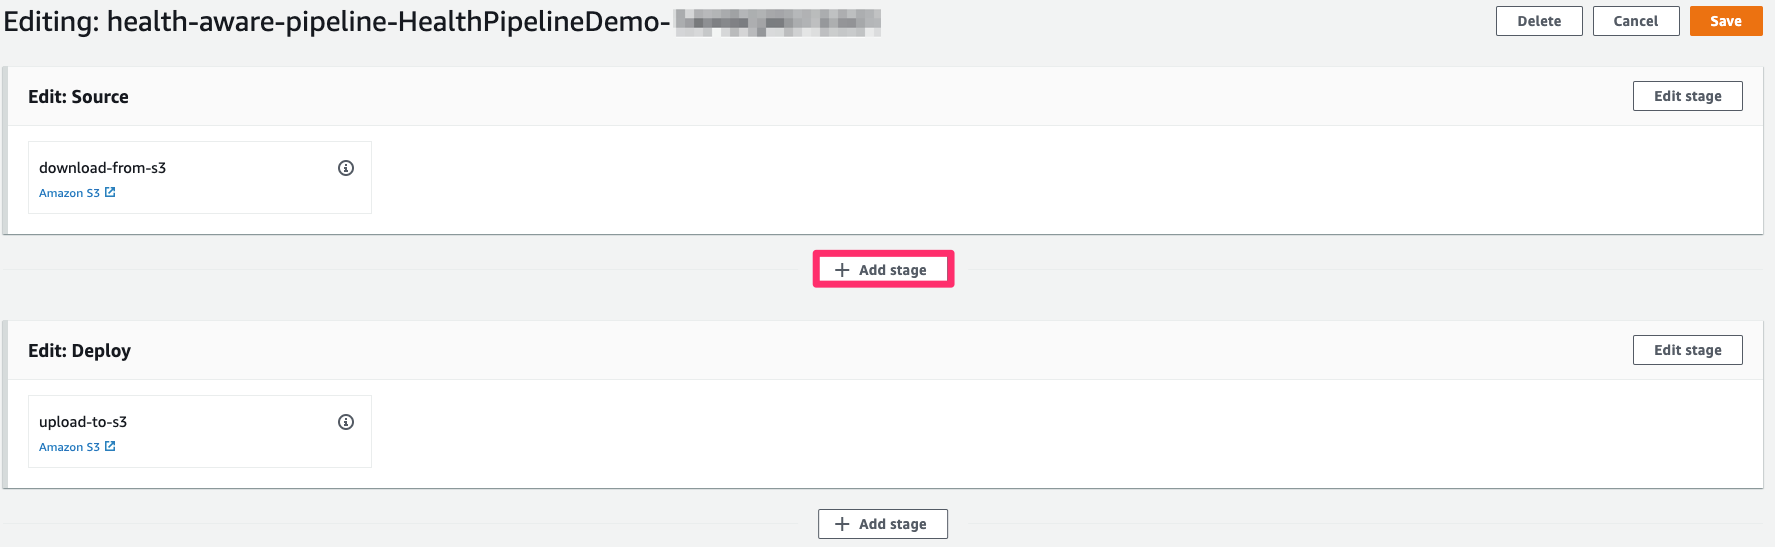
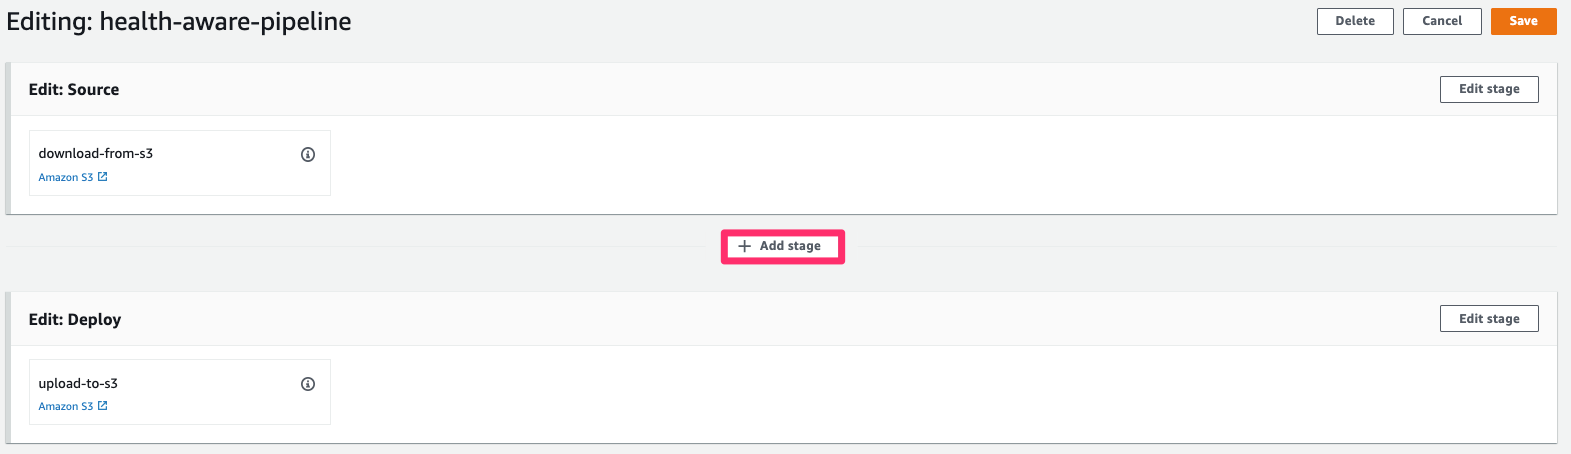
apply fixes based on Michael and Rene's Comments

diff --git a/content/Operational Excellence/300_Labs/300_Health_Aware_CICD_Pipelines/1_deploy_sample_cicd_pipeline.md b/content/Operational Excellence/300_Labs/300_Health_Aware_CICD_Pipelines/1_deploy_sample_cicd_pipeline.md
@@ -10,9 +10,9 @@ In this section, you will prepare a sample CI/CD pipeline. The CI/CD pipeline is
 
 The CodePipeline flow consists of three steps:
 
-1. Source stage that downloads the file `file-to-edit` from an S3 bucket.
+1. Source stage that downloads the file `health-demo-file.txt` from an S3 bucket.
 2. Custom stage that invokes the AWS Lambda function to evaluate the AWS Health. The Lambda function calls the AWS Health API, evaluates the health risk, and calls back CodePipeline with the assessment result.
-3. Deploy stage that uploads the S3 file `file-to-edit` into the same source bucket under a different prefix `/output`.
+3. Deploy stage that uploads the S3 file `health-demo-file.txt` into the same source bucket under a different prefix `/output`.
 
 ![CodePipeline workflow ](/Operations/300_Health_Aware_CICD_Pipelines/Images/health-aware-cicd-pipelines-war-workflow.png)
 
@@ -39,33 +39,38 @@ In this step you will provision a [CloudFormation](https://aws.amazon.com/cloudf
 
 ![Cloudformation Resources ](/Operations/300_Health_Aware_CICD_Pipelines/Images/cloudformation-resources.png)
 
-* An AWS CodePipeline workflow named `health-aware-pipeline-HealthPipelineDemo-<RANDOM_NUMBER>`
-* An S3 bucket named `health-aware-pipeline-s3buckethealthdemo-<RANDOM_NUMBER>`. This is where the source object (`file-to-edit`) will be uploaded.
-* An IAM Role named `health-aware-pipeline-PipelineExecutionRole-<RANDOM_NUMBER>` that will be assumed by the AWS CodePipeline workflow to call AWS services on your behalf. 
+* An AWS CodePipeline workflow named `health-aware-pipeline`
+* An S3 bucket named `<STACK_NAME>-s3buckethealthdemo-<RANDOM_NUMBER>`. This is where the source object (`health-demo-file.txt`) will be uploaded.
+* An IAM Role named `health-aware-pipeline-role` that will be assumed by the AWS CodePipeline workflow to call AWS services on your behalf. 
 
-### 2. Upload the sample file `file-to-edit` to S3
+### 2. Upload the sample file to S3
 
-To verify that the deployment in step 1 is valid, you will have to create a sample source file (`file-to-edit`) and upload to the S3 bucket created in the previous step. This file can be an empty file or you may use [this sample file](/Operations/300_Health_Aware_CICD_Pipelines/Code/file-to-edit).
+To verify that the deployment in step 1 is valid, you will have to create a sample source file (`health-demo-file.txt`) and upload to the S3 bucket created in the previous step. This file can be an empty file or you may use [this sample file](/Operations/300_Health_Aware_CICD_Pipelines/Code/health-demo-file.txt).
 
 * Open the [AWS S3 console](https://s3.console.aws.amazon.com/s3/buckets) and select the newly created bucket.
 * In the **Objects** tab, click the **Upload** button.
 
 ![S3 Bucket Click Upload ](/Operations/300_Health_Aware_CICD_Pipelines/Images/s3-upload.png)
 
-* In the **Upload** screen, click **Add files** and select `file-to-add` from your local storage. Finally, click **Upload**.
+* In the **Upload** screen, click **Add files** and select `health-demo-file.txt` from your local storage. Finally, click **Upload**.
 
 ![S3 Bucket Click Add files ](/Operations/300_Health_Aware_CICD_Pipelines/Images/s3-addfiles.png)
 
-### 2. Test the AWS CodePipeline workflow
+### 3. Test the AWS CodePipeline workflow
 
-In this step, we will validate a successful pipeline execution. Go to the [AWS CodePipeline console](https://ap-southeast-2.console.aws.amazon.com/codesuite/codepipeline/pipelines?region=ap-southeast-2) and click the "Release Change" button.
+In this step, we will validate a successful pipeline execution. Go to the [AWS CodePipeline console](https://ap-southeast-2.console.aws.amazon.com/codesuite/codepipeline/pipelines?region=ap-southeast-2), select the health aware workflow you just created and click the “Release Change” button, then click “Release” when prompted.
+
+In this step, we will validate a successful pipeline execution. Go to the [AWS CodePipeline console](https://ap-southeast-2.console.aws.amazon.com/codesuite/codepipeline/pipelines?region=ap-southeast-2), select the workflow you just created and click the “Release Change” button, then click “Release” when prompted.
 
 ![CodePipeline release change ](/Operations/300_Health_Aware_CICD_Pipelines/Images/codepipeline-release-change.png)
 
-If the workflow operated as designed, the "Deploy" stage will be marked as "succeeded". In addition to that, the object `file-to-edit` will be now copied into the same S3 bucket under the `/output` prefix. 
+If the workflow operated as designed, the "Deploy" stage will be marked as "succeeded". In addition to that, the object `health-demo-file.txt` will be now copied into the same S3 bucket under the `/output` prefix. 
 
 ![CodePipeline deployment complete ](/Operations/300_Health_Aware_CICD_Pipelines/Images/codepipeline-deployment-complete.png)
 
+{{% notice note %}}
+The pipeline expects a source file with the name `health-demo-file.txt` to be available in the source bucket. If the file doesn't exist, pipeline execution will fail.
+{{% /notice %}}
 
 ## Congratulations! 
 

diff --git a/content/Operational Excellence/300_Labs/300_Health_Aware_CICD_Pipelines/2_evaluate_aws_region_health.md b/content/Operational Excellence/300_Labs/300_Health_Aware_CICD_Pipelines/2_evaluate_aws_region_health.md
@@ -101,6 +101,7 @@ and then click **"Create function"**
 In this section, you'll upload the Python code package to the newly created Lambda function and understand how it works, and interacts with the surrounding dependencies. 
 
 a. To download the Lambda Package, click [here](/Operations/300_Health_Aware_CICD_Pipelines/Code/function-validate-aws-health.zip).
+
 b. Click **"Upload from"** a **".zip file"** in the Lambda function, `region-health-evaluation` console. 
 
 ![Upload a the Lambda package ](/Operations/300_Health_Aware_CICD_Pipelines/Images/lambda-upload.png)
@@ -109,7 +110,7 @@ c. Select the .zip package downloaded in step a, and then click **"Save"**
 
 Now, your Python code is uploaded to the Lambda function and ready for use.
 
-#### 1.4. Understandnig the evaluation code
+#### 1.4. Understanding the evaluation code
 
 The Lambda function evaluates whether or not a running AWS Health event may impact the deployment. In this case, the following criteria must be met to consider it as safe to deploy:
 
@@ -125,26 +126,40 @@ The Python code is available on [GitHub](https://github.com/aws-samples/building
 
 ## 2. Integrate CodePipeline and Lambda
 
-In this step, you will create a new stage in the CodePipeline workflow. The stage has a single action that calls the Lambda function to evalaute the region's health. The CodePipeline workflow execution is block untill it receives a callback from the Lambda function indicating either success or failure of the health check. 
+In this step, you will create a new stage in the CodePipeline workflow. The stage has a single action that calls the Lambda function to evaluate the region's health. The CodePipeline workflow execution is blocked until it receives a callback from the Lambda function indicating either success or failure of the health check. 
 
-a. In the AWS CodePipeline console, select the previously deployed workflow `health-aware-pipeline-HealthPipelineDemo-<RANDOM_NUMBER>`
+a. In the AWS CodePipeline console, select the previously deployed workflow `health-aware-pipeline`
 
 b. To Edit the workflow, click on the **"Edit"** button. 
 
-![Edit CodePipeline workflow ](/Operations/300_Health_Aware_CICD_Pipelines/Images/codepipeline-edit.png)
+![Edit CodePipeline workflow ](/Operations/300_Health_Aware_CICD_Pipelines/Images/codepipeline-edit-pipeline.png)
 
-c. Click the **"Add stage"** button between the **"Source"** and **"Deploy"** steps. Name the new stage `evaluate-region-health` and then save. 
+c. Click the **"Add stage"** button between the **"Source"** and **"Deploy"** steps. 
 
-d. In the newly added stage, click **"Add action group"** and fill in the following option values:
+![CodePipeline add stage ](/Operations/300_Health_Aware_CICD_Pipelines/Images/codepipeline-add-stage.png)
+
+d. Name the new stage `evaluate-region-health` and then save. 
+
+![CodePipeline stage name ](/Operations/300_Health_Aware_CICD_Pipelines/Images/codepipeline-stage-name.png)
+
+e. In the newly added stage, click **"Add action group"** and fill in the following option values:
+
+![CodePipeline add action group ](/Operations/300_Health_Aware_CICD_Pipelines/Images/codepipeline-add-action-group.png)
 
 * **Action name**: `lambda-health-check`
 * **Action provider**: Invoke/AWS Lambda
 * **Region**: Asia Pacific (Sydney)
-* **Input artifacts**: `file-to-edit`
+* **Input artifacts**: `health-demo-file`
 * **Function name**: `region-health-evaluation`
 * **User parameters**: `ap-southeast-2`
 
-Click **"Save"** to finalise. 
+Click **"Done"** to save. 
+
+![CodePipeline edit action ](/Operations/300_Health_Aware_CICD_Pipelines/Images/codepipeline-edit-action.png)
+
+f. Now, click **"Done"** and then **"Save"** to finalise. 
+
+![CodePipeline edit final ](/Operations/300_Health_Aware_CICD_Pipelines/Images/codepipeline-edit-final.png)
 
 ## Congratulations! 
 

diff --git a/content/Operational Excellence/300_Labs/300_Health_Aware_CICD_Pipelines/3_simulate_aws_region_issue.md b/content/Operational Excellence/300_Labs/300_Health_Aware_CICD_Pipelines/3_simulate_aws_region_issue.md
@@ -24,7 +24,7 @@ To simulate a successful health evaluation, go to the CodePipeline console and c
 ![CodePipeline release change ](/Operations/300_Health_Aware_CICD_Pipelines/Images/codepipeline-release-change.png)
 
 
-If the workflow operated as designed, "Source", "evaluate-region-health" and "Deploy" stages will be marked as "succeeded". In addition to that, the object `file-to-edit` will be now copied into the same S3 bucket under the `/output` prefix.
+If the workflow operated as designed, "Source", "evaluate-region-health" and "Deploy" stages will be marked as "succeeded". In addition to that, the object `health-demo-file.txt` will be now copied into the same S3 bucket under the `/output` prefix.
 
 ![CodePipeline release change ](/Operations/300_Health_Aware_CICD_Pipelines/Images/codepipeline-deployment-complete-with-lambda.png)
 
